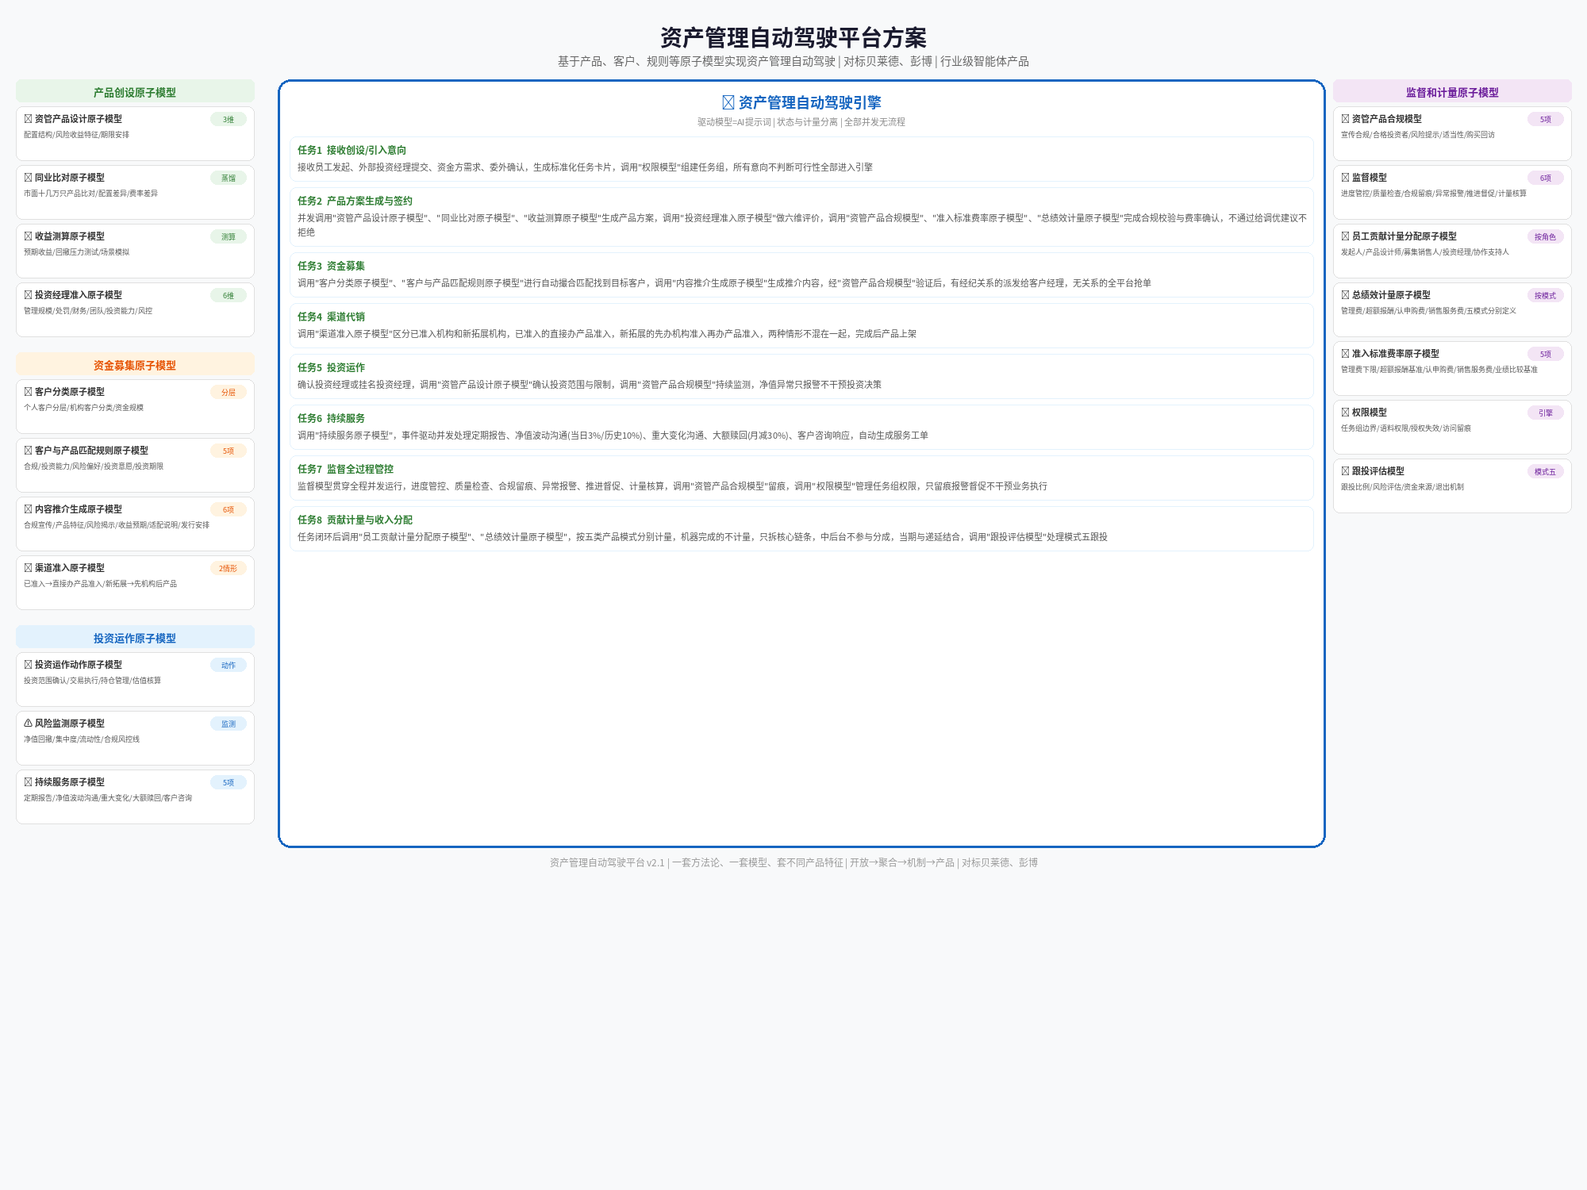
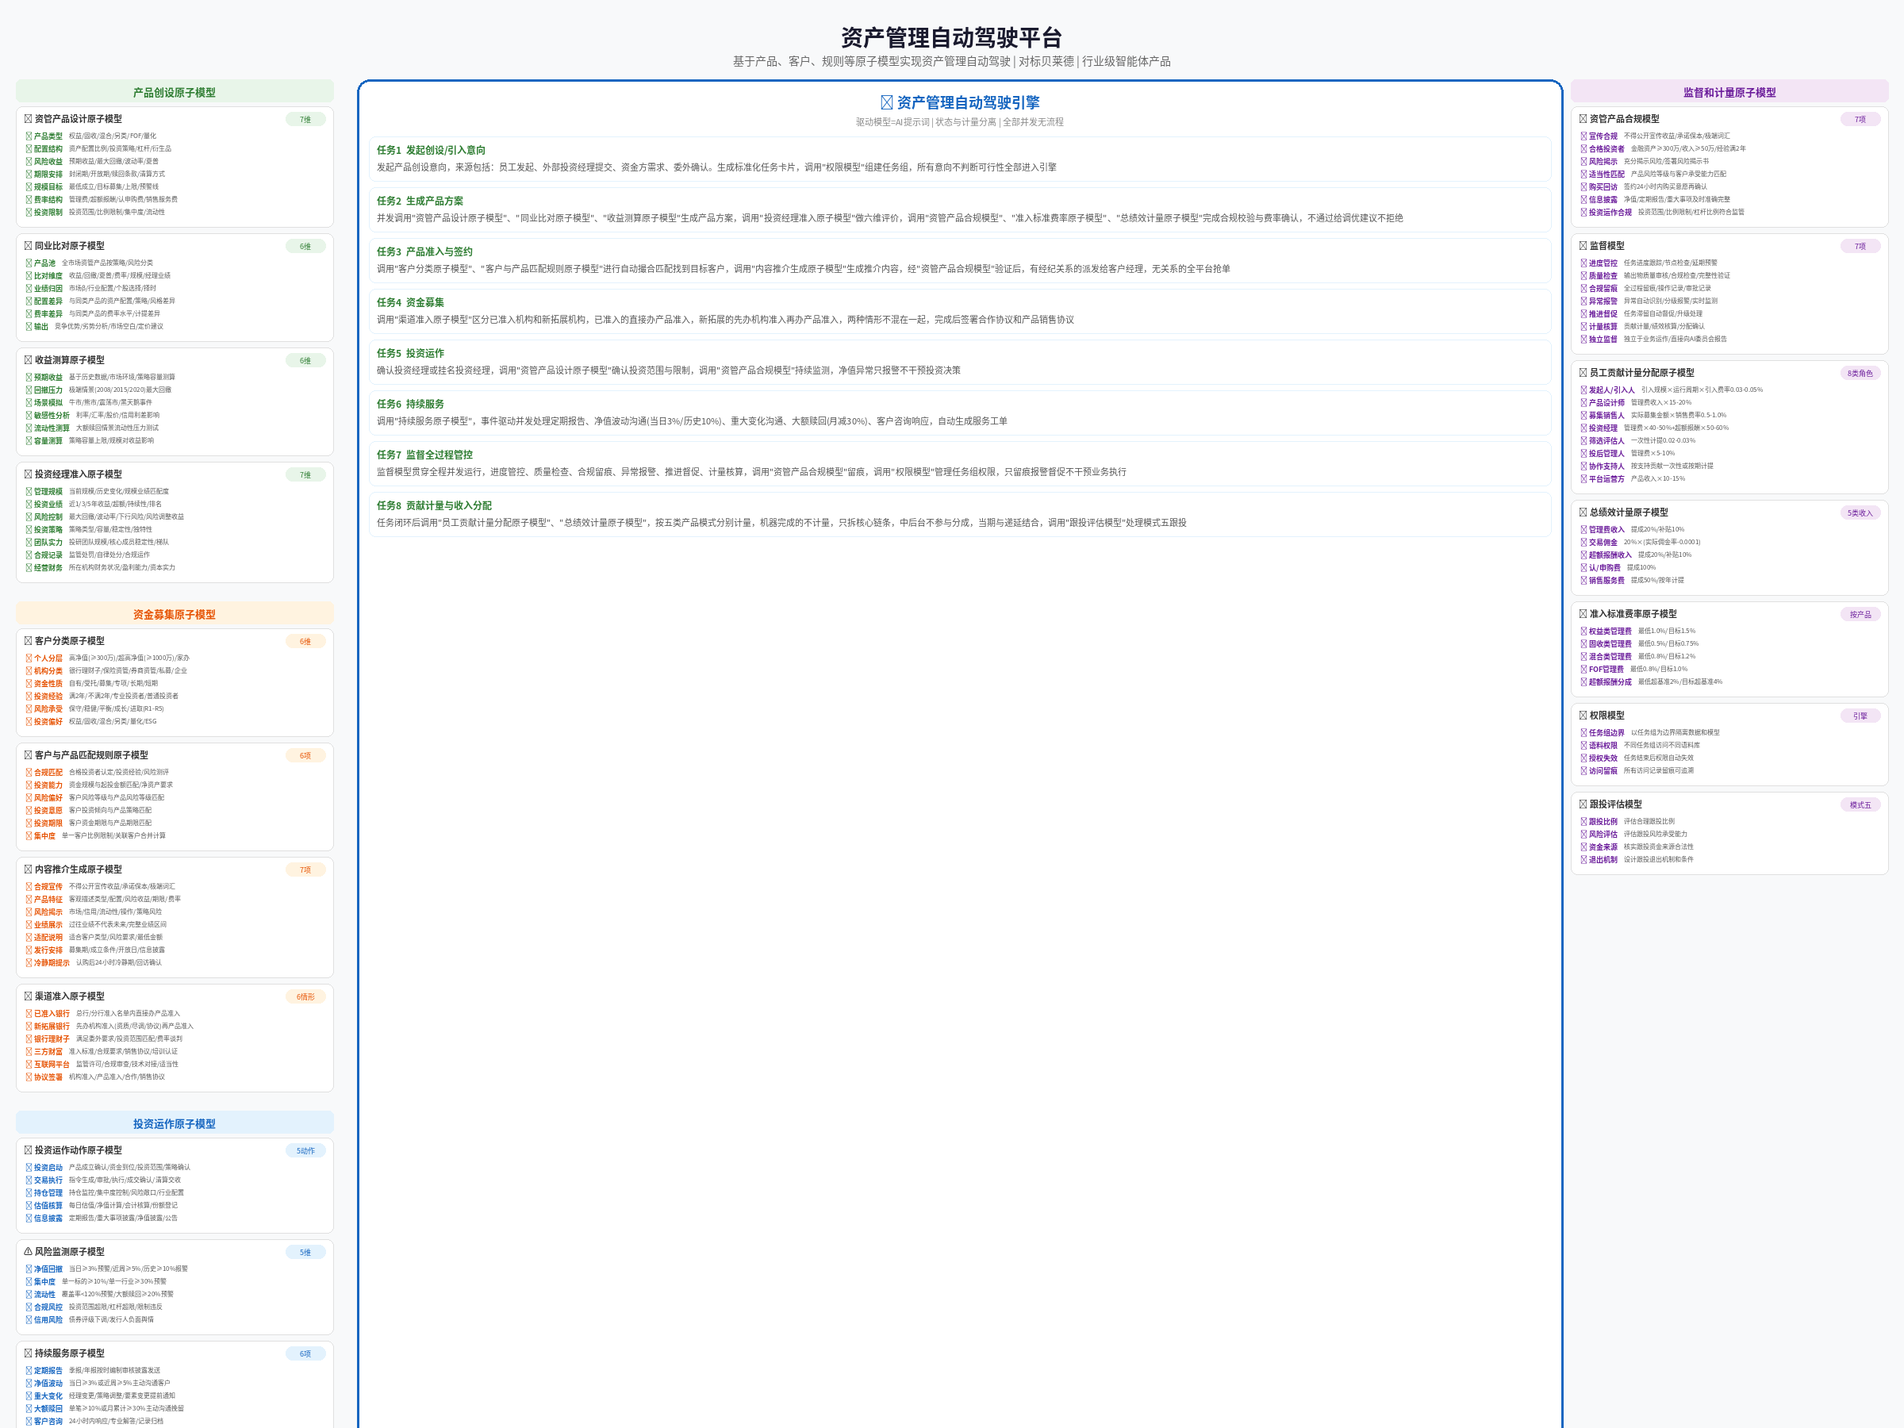
更新：图片原子模型改为卡片式键值对格式，每个维度有具体内容

diff --git a/diagrams/generate_asset_mgmt_diagram.py b/diagrams/generate_asset_mgmt_diagram.py
@@ -1,10 +1,10 @@
 #!/usr/bin/env python3
-"""生成资管业务自动驾驶整体方案图 v3 - 按四大类分块"""
+"""生成资管业务自动驾驶整体方案图 v3 - 卡片式详细内容"""
 
 from PIL import Image, ImageDraw, ImageFont
 import os
 
-W, H = 2000, 1500
+W, H = 2400, 1800
 img = Image.new('RGB', (W, H), '#f8f9fa')
 draw = ImageDraw.Draw(img)
 
@@ -81,45 +81,165 @@ draw_text_centered(draw, W/2, 65, '基于产品、客户、规则等原子模型
 
 # ==================== 布局 ====================
 LEFT_X = 20
-LEFT_W = 300
-RIGHT_X = W - 20 - 300
-RIGHT_W = 300
+LEFT_W = 400
+RIGHT_X = W - 20 - 400
+RIGHT_W = 400
 ENGINE_X = LEFT_X + LEFT_W + 30
 ENGINE_W = W - ENGINE_X - RIGHT_W - 30
 ENGINE_Y = 100
 
-# ==================== 四大类原子模型定义 ====================
-# 左侧：产品创设阶段 + 资金募集阶段（整合渠道代销）+ 投资运作阶段
-# 右侧：监督和计量
+# ==================== 原子模型定义（卡片式详细内容） ====================
 
 sections_left = [
     {
         'title': '产品创设原子模型',
         'sec': 'sec1',
         'models': [
-            ('📐 资管产品设计原子模型', '7维', '产品类型/配置结构/风险收益/期限安排/规模目标/费率结构/投资限制'),
-            ('📊 同业比对原子模型', '6维', '产品池/比对维度/业绩归因/配置差异/费率差异/定价建议'),
-            ('🧮 收益测算原子模型', '6维', '预期收益/回撤压力/场景模拟/敏感性/流动性/容量测算'),
-            ('👤 投资经理准入原子模型', '7维', '管理规模/投资业绩/风险控制/投资策略/团队实力/合规记录/经营财务'),
+            {
+                'title': '📐 资管产品设计原子模型',
+                'tag': '7维',
+                'items': [
+                    ('产品类型', '权益/固收/混合/另类/FOF/量化'),
+                    ('配置结构', '资产配置比例/投资策略/杠杆/衍生品'),
+                    ('风险收益', '预期收益/最大回撤/波动率/夏普'),
+                    ('期限安排', '封闭期/开放期/赎回条款/清算方式'),
+                    ('规模目标', '最低成立/目标募集/上限/预警线'),
+                    ('费率结构', '管理费/超额报酬/认申购费/销售服务费'),
+                    ('投资限制', '投资范围/比例限制/集中度/流动性'),
+                ]
+            },
+            {
+                'title': '📊 同业比对原子模型',
+                'tag': '6维',
+                'items': [
+                    ('产品池', '全市场资管产品按策略/风险分类'),
+                    ('比对维度', '收益/回撤/夏普/费率/规模/经理业绩'),
+                    ('业绩归因', '市场β/行业配置/个股选择/择时'),
+                    ('配置差异', '与同类产品的资产配置/策略/风格差异'),
+                    ('费率差异', '与同类产品的费率水平/计提差异'),
+                    ('输出', '竞争优势/劣势分析/市场空白/定价建议'),
+                ]
+            },
+            {
+                'title': '🧮 收益测算原子模型',
+                'tag': '6维',
+                'items': [
+                    ('预期收益', '基于历史数据/市场环境/策略容量测算'),
+                    ('回撤压力', '极端情景(2008/2015/2020)最大回撤'),
+                    ('场景模拟', '牛市/熊市/震荡市/黑天鹅事件'),
+                    ('敏感性分析', '利率/汇率/股价/信用利差影响'),
+                    ('流动性测算', '大额赎回情景流动性压力测试'),
+                    ('容量测算', '策略容量上限/规模对收益影响'),
+                ]
+            },
+            {
+                'title': '👤 投资经理准入原子模型',
+                'tag': '7维',
+                'items': [
+                    ('管理规模', '当前规模/历史变化/规模业绩匹配度'),
+                    ('投资业绩', '近1/3/5年收益/超额/持续性/排名'),
+                    ('风险控制', '最大回撤/波动率/下行风险/风险调整收益'),
+                    ('投资策略', '策略类型/容量/稳定性/独特性'),
+                    ('团队实力', '投研团队规模/核心成员稳定性/梯队'),
+                    ('合规记录', '监管处罚/自律处分/合规运作'),
+                    ('经营财务', '所在机构财务状况/盈利能力/资本实力'),
+                ]
+            },
         ]
     },
     {
         'title': '资金募集原子模型',
         'sec': 'sec2',
         'models': [
-            ('👥 客户分类原子模型', '6维', '个人分层/机构分类/资金性质/投资经验/风险承受/投资偏好'),
-            ('🎯 客户与产品匹配规则原子模型', '6项', '合规匹配/投资能力/风险偏好/投资意愿/投资期限/集中度'),
-            ('📝 内容推介生成原子模型', '7项', '合规宣传/产品特征/风险揭示/业绩展示/适配说明/发行安排/冷静期提示'),
-            ('🏦 渠道准入原子模型', '6情形', '已准入银行/新拓展银行/银行理财子/三方财富/互联网平台/协议签署'),
+            {
+                'title': '👥 客户分类原子模型',
+                'tag': '6维',
+                'items': [
+                    ('个人分层', '高净值(≥300万)/超高净值(≥1000万)/家办'),
+                    ('机构分类', '银行理财子/保险资管/券商资管/私募/企业'),
+                    ('资金性质', '自有/受托/募集/专项/长期/短期'),
+                    ('投资经验', '满2年/不满2年/专业投资者/普通投资者'),
+                    ('风险承受', '保守/稳健/平衡/成长/进取(R1-R5)'),
+                    ('投资偏好', '权益/固收/混合/另类/量化/ESG'),
+                ]
+            },
+            {
+                'title': '🎯 客户与产品匹配规则原子模型',
+                'tag': '6项',
+                'items': [
+                    ('合规匹配', '合格投资者认定/投资经验/风险测评'),
+                    ('投资能力', '资金规模与起投金额匹配/净资产要求'),
+                    ('风险偏好', '客户风险等级与产品风险等级匹配'),
+                    ('投资意愿', '客户投资倾向与产品策略匹配'),
+                    ('投资期限', '客户资金期限与产品期限匹配'),
+                    ('集中度', '单一客户比例限制/关联客户合并计算'),
+                ]
+            },
+            {
+                'title': '📝 内容推介生成原子模型',
+                'tag': '7项',
+                'items': [
+                    ('合规宣传', '不得公开宣传收益/承诺保本/极端词汇'),
+                    ('产品特征', '客观描述类型/配置/风险收益/期限/费率'),
+                    ('风险揭示', '市场/信用/流动性/操作/策略风险'),
+                    ('业绩展示', '过往业绩不代表未来/完整业绩区间'),
+                    ('适配说明', '适合客户类型/风险要求/最低金额'),
+                    ('发行安排', '募集期/成立条件/开放日/信息披露'),
+                    ('冷静期提示', '认购后24小时冷静期/回访确认'),
+                ]
+            },
+            {
+                'title': '🏦 渠道准入原子模型',
+                'tag': '6情形',
+                'items': [
+                    ('已准入银行', '总行/分行准入名单内直接办产品准入'),
+                    ('新拓展银行', '先办机构准入(资质/尽调/协议)再产品准入'),
+                    ('银行理财子', '满足委外要求/投资范围匹配/费率谈判'),
+                    ('三方财富', '准入标准/合规要求/销售协议/培训认证'),
+                    ('互联网平台', '监管许可/合规审查/技术对接/适当性'),
+                    ('协议签署', '机构准入/产品准入/合作/销售协议'),
+                ]
+            },
         ]
     },
     {
         'title': '投资运作原子模型',
         'sec': 'sec3',
         'models': [
-            ('📋 投资运作动作原子模型', '5动作', '投资启动/交易执行/持仓管理/估值核算/信息披露'),
-            ('⚠ 风险监测原子模型', '5维', '净值回撤/集中度/流动性/合规风控/信用风险+处理机制'),
-            ('🔧 持续服务原子模型', '6项', '定期报告/净值波动/重大变化/大额赎回/客户咨询/投诉处理'),
+            {
+                'title': '📋 投资运作动作原子模型',
+                'tag': '5动作',
+                'items': [
+                    ('投资启动', '产品成立确认/资金到位/投资范围/策略确认'),
+                    ('交易执行', '指令生成/审批/执行/成交确认/清算交收'),
+                    ('持仓管理', '持仓监控/集中度控制/风险敞口/行业配置'),
+                    ('估值核算', '每日估值/净值计算/会计核算/份额登记'),
+                    ('信息披露', '定期报告/重大事项披露/净值披露/公告'),
+                ]
+            },
+            {
+                'title': '⚠ 风险监测原子模型',
+                'tag': '5维',
+                'items': [
+                    ('净值回撤', '当日≥3%预警/近周≥5%/历史≥10%报警'),
+                    ('集中度', '单一标的≥10%/单一行业≥30%预警'),
+                    ('流动性', '覆盖率<120%预警/大额赎回≥20%预警'),
+                    ('合规风控', '投资范围超限/杠杆超限/限制违反'),
+                    ('信用风险', '债券评级下调/发行人负面舆情'),
+                ]
+            },
+            {
+                'title': '🔧 持续服务原子模型',
+                'tag': '6项',
+                'items': [
+                    ('定期报告', '季报/年报按时编制审核披露发送'),
+                    ('净值波动', '当日≥3%或近周≥5%主动沟通客户'),
+                    ('重大变化', '经理变更/策略调整/要素变更提前通知'),
+                    ('大额赎回', '单笔≥10%或月累计≥30%主动沟通挽留'),
+                    ('客户咨询', '24小时内响应/专业解答/记录归档'),
+                    ('投诉处理', '2小时响应/48小时方案/全程留痕'),
+                ]
+            },
         ]
     },
 ]
@@ -129,13 +249,88 @@ sections_right = [
         'title': '监督和计量原子模型',
         'sec': 'sec4',
         'models': [
-            ('🛡 资管产品合规模型', '7项', '宣传合规/合格投资者/风险揭示/适当性匹配/购买回访/信息披露/投资运作合规'),
-            ('👁 监督模型', '7项', '进度管控/质量检查/合规留痕/异常报警/推进督促/计量核算/独立监督'),
-            ('⚖ 员工贡献计量分配原子模型', '8类角色', '发起人/设计师/销售人/投资经理/筛选评估/投后管理/协作支持/平台运营+递延约束'),
-            ('📈 总绩效计量原子模型', '5类收入', '管理费20%+补贴10%/交易佣金/超额报酬20%+补贴10%/认申购费100%/销售服务费50%'),
-            ('💰 准入标准费率原子模型', '按产品', '权益类管理费1.0-1.5%/固收类0.5-0.75%/混合类0.8-1.2%/FOF0.8-1.0%/超额2-4%'),
-            ('🔑 权限模型', '引擎', '任务组边界/语料权限/授权失效/访问留痕'),
-            ('📋 跟投评估模型', '模式五', '跟投比例/风险评估/资金来源/退出机制'),
+            {
+                'title': '🛡 资管产品合规模型',
+                'tag': '7项',
+                'items': [
+                    ('宣传合规', '不得公开宣传收益/承诺保本/极端词汇'),
+                    ('合格投资者', '金融资产≥300万/收入≥50万/经验满2年'),
+                    ('风险揭示', '充分揭示风险/签署风险揭示书'),
+                    ('适当性匹配', '产品风险等级与客户承受能力匹配'),
+                    ('购买回访', '签约24小时内购买意愿再确认'),
+                    ('信息披露', '净值/定期报告/重大事项及时准确完整'),
+                    ('投资运作合规', '投资范围/比例限制/杠杆比例符合监管'),
+                ]
+            },
+            {
+                'title': '👁 监督模型',
+                'tag': '7项',
+                'items': [
+                    ('进度管控', '任务进度跟踪/节点检查/延期预警'),
+                    ('质量检查', '输出物质量审核/合规检查/完整性验证'),
+                    ('合规留痕', '全过程留痕/操作记录/审批记录'),
+                    ('异常报警', '异常自动识别/分级报警/实时监测'),
+                    ('推进督促', '任务滞留自动督促/升级处理'),
+                    ('计量核算', '贡献计量/绩效核算/分配确认'),
+                    ('独立监督', '独立于业务运作/直接向AI委员会报告'),
+                ]
+            },
+            {
+                'title': '⚖ 员工贡献计量分配原子模型',
+                'tag': '8类角色',
+                'items': [
+                    ('发起人/引入人', '引入规模×运行周期×引入费率0.03-0.05%'),
+                    ('产品设计师', '管理费收入×15-20%'),
+                    ('募集销售人', '实际募集金额×销售费率0.5-1.0%'),
+                    ('投资经理', '管理费×40-50%+超额报酬×50-60%'),
+                    ('筛选评估人', '一次性计提0.02-0.03%'),
+                    ('投后管理人', '管理费×5-10%'),
+                    ('协作支持人', '按支持贡献一次性或按期计提'),
+                    ('平台运营方', '产品收入×10-15%'),
+                ]
+            },
+            {
+                'title': '📈 总绩效计量原子模型',
+                'tag': '5类收入',
+                'items': [
+                    ('管理费收入', '提成20%/补贴10%'),
+                    ('交易佣金', '20%×(实际佣金率-0.0001)'),
+                    ('超额报酬收入', '提成20%/补贴10%'),
+                    ('认/申购费', '提成100%'),
+                    ('销售服务费', '提成50%/按年计提'),
+                ]
+            },
+            {
+                'title': '💰 准入标准费率原子模型',
+                'tag': '按产品',
+                'items': [
+                    ('权益类管理费', '最低1.0%/目标1.5%'),
+                    ('固收类管理费', '最低0.5%/目标0.75%'),
+                    ('混合类管理费', '最低0.8%/目标1.2%'),
+                    ('FOF管理费', '最低0.8%/目标1.0%'),
+                    ('超额报酬分成', '最低超基准2%/目标超基准4%'),
+                ]
+            },
+            {
+                'title': '🔑 权限模型',
+                'tag': '引擎',
+                'items': [
+                    ('任务组边界', '以任务组为边界隔离数据和模型'),
+                    ('语料权限', '不同任务组访问不同语料库'),
+                    ('授权失效', '任务结束后权限自动失效'),
+                    ('访问留痕', '所有访问记录留痕可追溯'),
+                ]
+            },
+            {
+                'title': '📋 跟投评估模型',
+                'tag': '模式五',
+                'items': [
+                    ('跟投比例', '评估合理跟投比例'),
+                    ('风险评估', '评估跟投风险承受能力'),
+                    ('资金来源', '核实跟投资金来源合法性'),
+                    ('退出机制', '设计跟投退出机制和条件'),
+                ]
+            },
         ]
     },
 ]
@@ -144,10 +339,10 @@ sections_right = [
 sec_header_font = get_font(13, bold=True)
 mc_font_title = get_font(11, bold=True)
 mc_font_tag = get_font(9)
-mc_font_content = get_font(9)
-mc_h = 68
-mc_gap = 6
-sec_gap = 14
+mc_font_key = get_font(9, bold=True)
+mc_font_val = get_font(8)
+mc_gap = 8
+sec_gap = 16
 
 def render_sections(sections, x, w):
     y = ENGINE_Y
@@ -161,20 +356,37 @@ def render_sections(sections, x, w):
         y += 34
         
         # 模型卡片
-        for title, tag, content in section['models']:
+        for model in section['models']:
+            items = model['items']
+            # 计算卡片高度：标题(22) + 每个条目(16) + 边距
+            mc_h = 30 + len(items) * 16 + 10
+            
             rect = (x, y, x + w, y + mc_h)
             draw_rounded_rect(draw, rect, 8, COLORS['model_bg'], COLORS['model_border'], 1)
-            draw_text_left(draw, x + 10, y + 7, title, mc_font_title, COLORS['text_dark'])
             
-            tag_rect = (x + w - 55, y + 7, x + w - 10, y + 24)
+            # 标题和标签
+            draw_text_left(draw, x + 10, y + 7, model['title'], mc_font_title, COLORS['text_dark'])
+            
+            tag = model['tag']
+            tag_rect = (x + w - 60, y + 7, x + w - 10, y + 24)
             draw_rounded_rect(draw, tag_rect, 8, bg)
             bbox = draw.textbbox((0,0), tag, font=mc_font_tag)
             tw = bbox[2]-bbox[0]
-            draw_text_left(draw, x + w - 10 - tw - (45-tw)/2, y + 9, tag, mc_font_tag, text_color)
+            draw_text_left(draw, x + w - 10 - tw - (50-tw)/2, y + 9, tag, mc_font_tag, text_color)
             
-            lines = wrap_text_by_width(draw, content, mc_font_content, w - 20)
-            for i, line in enumerate(lines[:3]):
-                draw_text_left(draw, x + 10, y + 28 + i*14, line, mc_font_content, COLORS['text_mid'])
+            # 键值对内容
+            item_y = y + 30
+            for key, val in items:
+                # 键
+                draw_text_left(draw, x + 12, item_y, f'▸ {key}', mc_font_key, text_color)
+                # 值（换行处理）
+                key_width = draw.textbbox((0,0), f'▸ {key}', font=mc_font_key)[2]
+                val_x = x + 12 + key_width + 8
+                val_max_w = w - (val_x - x) - 15
+                val_lines = wrap_text_by_width(draw, val, mc_font_val, val_max_w)
+                for i, line in enumerate(val_lines[:2]):  # 最多2行
+                    draw_text_left(draw, val_x, item_y + i*14, line, mc_font_val, COLORS['text_mid'])
+                item_y += max(16, len(val_lines[:2]) * 14 + 2)
             
             card_positions.append((x + w if x < W/2 else x, y + mc_h/2))
             y += mc_h + mc_gap
@@ -254,6 +466,6 @@ footer_text = '资产管理自动驾驶平台 v3.0 | 一套方法论、一套模
 draw_text_centered(draw, W/2, max(task_y, max_side_y) + 20, footer_text, footer_font, COLORS['footer'])
 
 # 保存
-output_path = '/root/.openclaw/workspace/diagrams/资管业务自动驾驶整体方案-v2.png'
+output_path = '/root/.openclaw/workspace/diagrams/资产管理自动驾驶平台方案-v3.png'
 img.save(output_path, 'PNG', dpi=(150, 150))
 print(f'OK: {output_path}, size: {W}x{max(H, max(task_y, max_side_y) + 60)}')
